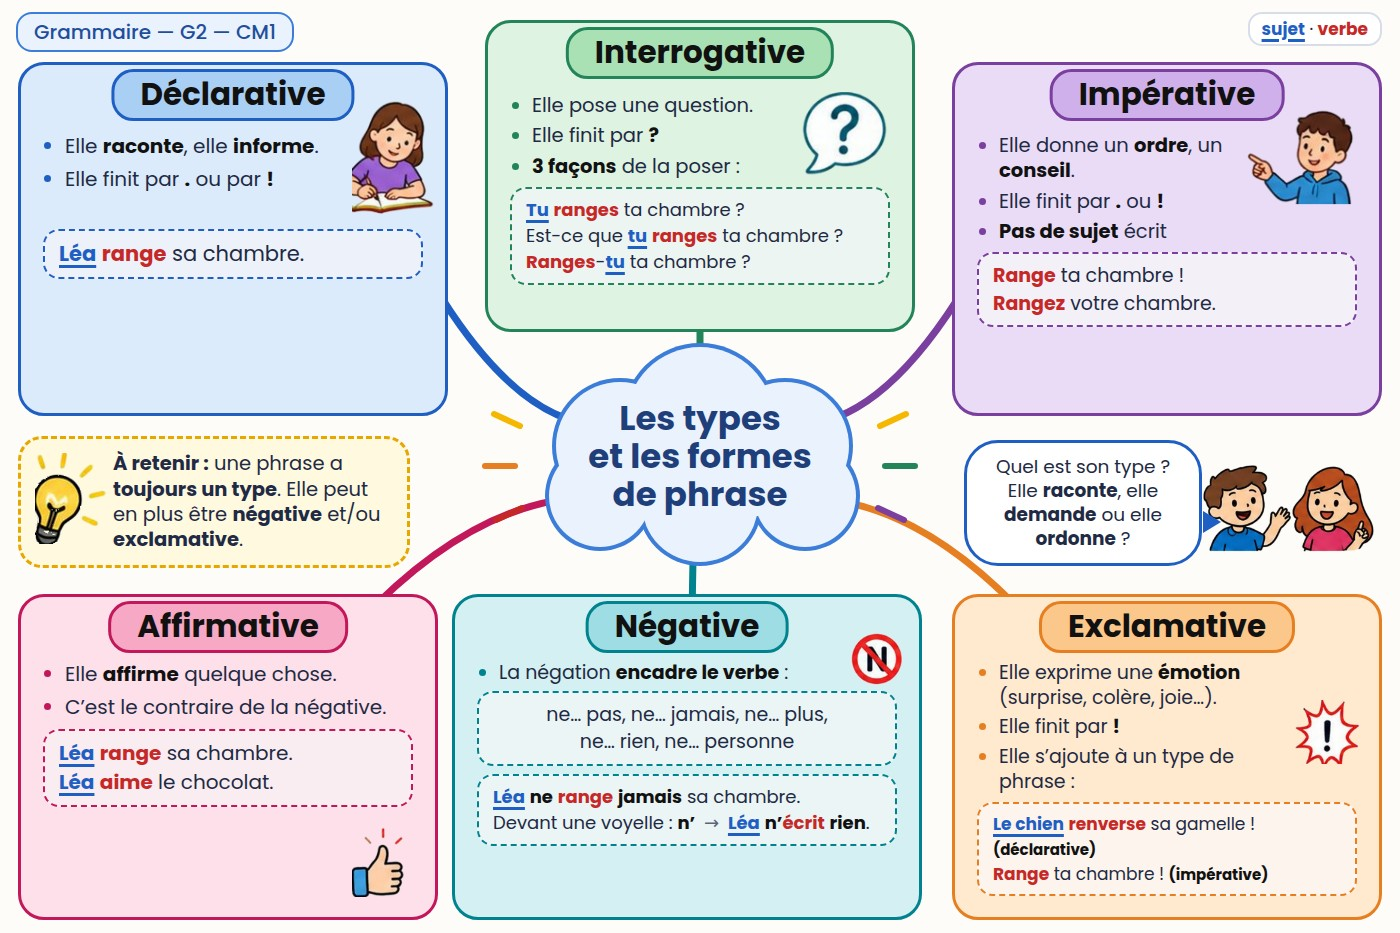
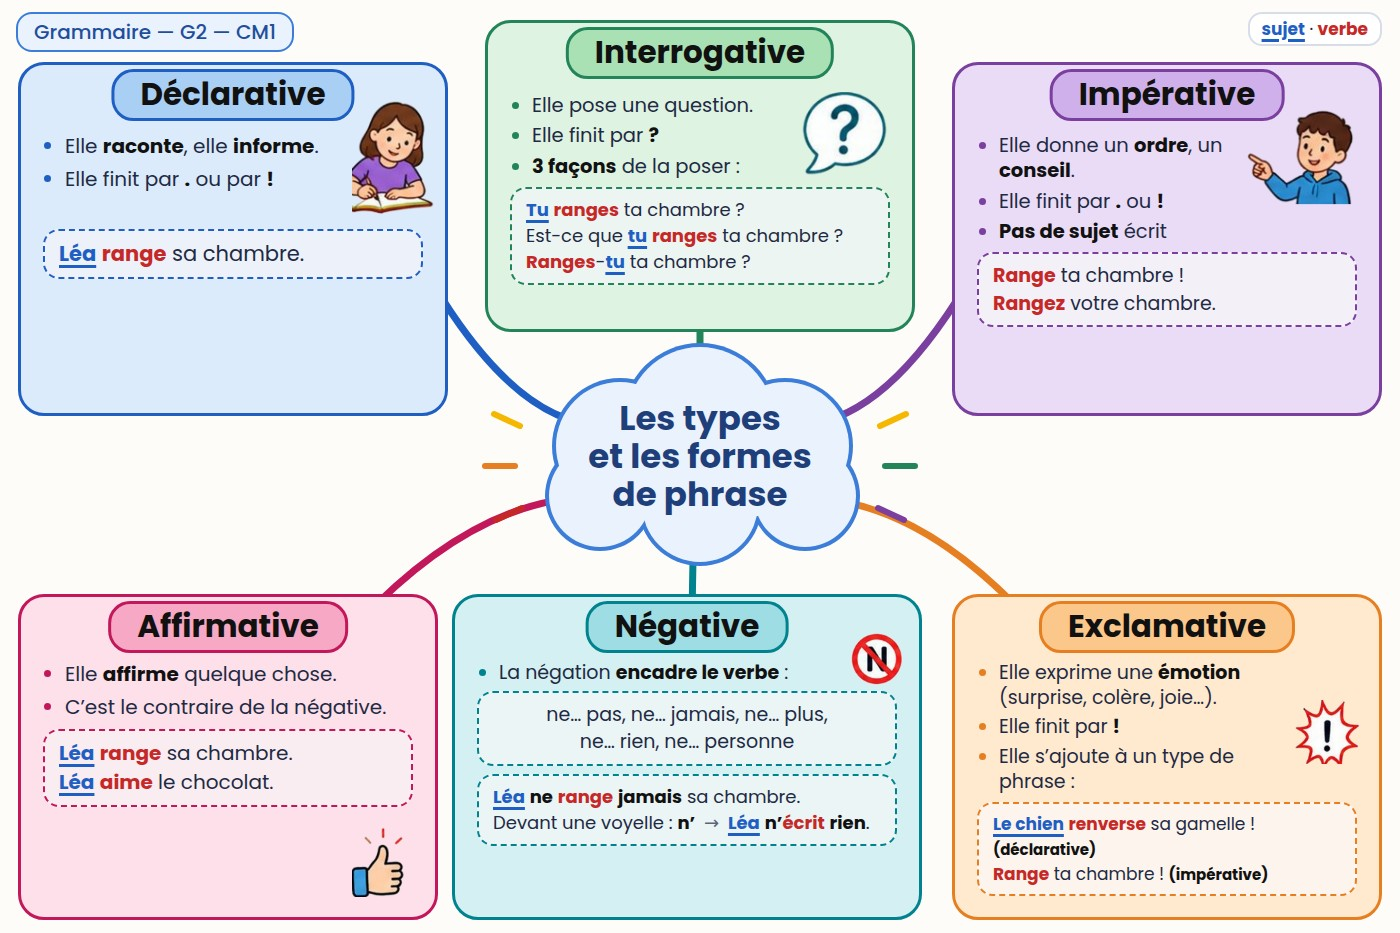
G2 : note « À retenir » et duo d'enfants retirés (page surchargée)

Changed region(s): [[0.0, 0.4662, 0.3071, 0.6217], [0.6757, 0.4662, 0.9829, 0.6217]]

diff --git a/outils/lecons/g2_cartes.py b/outils/lecons/g2_cartes.py
@@ -62,7 +62,7 @@ def carte(lid, chip, niveau):
             '<span><b>À retenir :</b> une phrase a <b>toujours un type</b>. Elle peut en plus être <b>négative</b> et/ou <b>exclamative</b>.</span></div>')
     duo = ('<img src="file://' + os.path.join(os.path.dirname(os.path.abspath(__file__)), '..', 'img', 'g2', 'duo.png') + '" style="position:absolute;left:1200px;top:462px;width:180px">'
            + bulle(964, 440, 238, 126, 'Quel est son type ?<br>Elle <b>raconte</b>, elle <b>demande</b> ou elle <b>ordonne</b> ?', 'right:-22px;bottom:30px;border:11px solid transparent;border-left:18px solid #1f5fc4;border-right:0'))
-    extra_html = note + duo
+    extra_html = ''   # note « À retenir » et duo d'enfants (variables note et duo) retirés le 13/11/2026 : surchargeaient la page
     return build(lid, titre, chip, legend, boxes, extra_html=extra_html, sub='', title_size=34, cloud_dy=26)
 
 

diff --git a/CLAUDE.md b/CLAUDE.md
@@ -52,7 +52,7 @@ Site des leçons interactives (ceintures de français CM1) publié avec GitHub P
 - Sommaire par classe : boutons CE2 / CM1 / CM2 (adresse `#niveau=CE2`…). Une leçon sans champ `niveau`
   est rangée en CM1 ; pour une leçon d'une autre classe, ajouter `niveau:'CE2'` ou `niveau:'CM2'` dans `TRACES`.
 - Page d’une leçon (13/11/2026, demande de l’enseignante) : plus d’en-tête (ceinture + titre + « Clique sur une partie… »), redondant avec le titre du nuage ; le titre reste dans un `<h2 class="vh">` (lecteurs d’écran).
-- Cartes de G2 (13/11/2026) : les trois (`G2`, `G2-CE2`, `G2-CM2`) sont fabriquées par `outils/lecons/g2_cartes.py` (même apparence ; dessins des enfants et pictos = images découpées de la carte CM1 d’origine, `outils/img/g2/*.png`, jamais redessinés). `python3 outils/lecons/g2_cartes.py`, puis copier `outils/sortie/G2*_carte.jpeg` dans `images/`. Couleurs soutenues comme G1 (`PALG`, option `pal` de `build`, classe `.box.tint`) ; seuls le sujet (bleu souligné) et le verbe (rouge) sont en couleur, titres et mots forts en noir (demande du 13/11/2026) ; éléments repris de G1 (note « À retenir » avec l’ampoule, duo d’enfants qui parle dans une bulle : images `outils/img/g2/ampoule.png`, `duo.png` découpées de G1, `extra_html` de `build`) ; nuage central descendu (`cloud_dy=26`), numéros des zones à l’intérieur du cadre (CSS `.zone .num`, en haut à gauche). Cadres pleins = zones cliquables : option `ext` de `build` (mapgen.py : le haut du cadre monte de `ext` px, le titre est posé à l’intérieur, `hstyle=top:30px`), zones de G2 = cadres exacts.
+- Cartes de G2 (13/11/2026) : les trois (`G2`, `G2-CE2`, `G2-CM2`) sont fabriquées par `outils/lecons/g2_cartes.py` (même apparence ; dessins des enfants et pictos = images découpées de la carte CM1 d’origine, `outils/img/g2/*.png`, jamais redessinés). `python3 outils/lecons/g2_cartes.py`, puis copier `outils/sortie/G2*_carte.jpeg` dans `images/`. Couleurs soutenues comme G1 (`PALG`, option `pal` de `build`, classe `.box.tint`) ; seuls le sujet (bleu souligné) et le verbe (rouge) sont en couleur, titres et mots forts en noir (demande du 13/11/2026) ; note « À retenir » et duo d’enfants (repris de G1) retirés le 13/11/2026 (page surchargée) ; images `outils/img/g2/ampoule.png`, `duo.png` découpées de G1, `extra_html` de `build`) ; nuage central descendu (`cloud_dy=26`), numéros des zones à l’intérieur du cadre (CSS `.zone .num`, en haut à gauche). Cadres pleins = zones cliquables : option `ext` de `build` (mapgen.py : le haut du cadre monte de `ext` px, le titre est posé à l’intérieur, `hstyle=top:30px`), zones de G2 = cadres exacts.
 - CM2 : mêmes numéros, mêmes couleurs, mêmes notions qu'en CM1 (choix de l'enseignante, octobre 2026).
   Une leçon CM2 (id `XX-CM2`, code affiché `XX`) = la leçon CM1 + les écrans de `CM2_PLUS` (étiquette « CM2 »,
   placés après le dernier écran de leur section) + un encadré « En CM2, j'apprends aussi » sous la carte.
